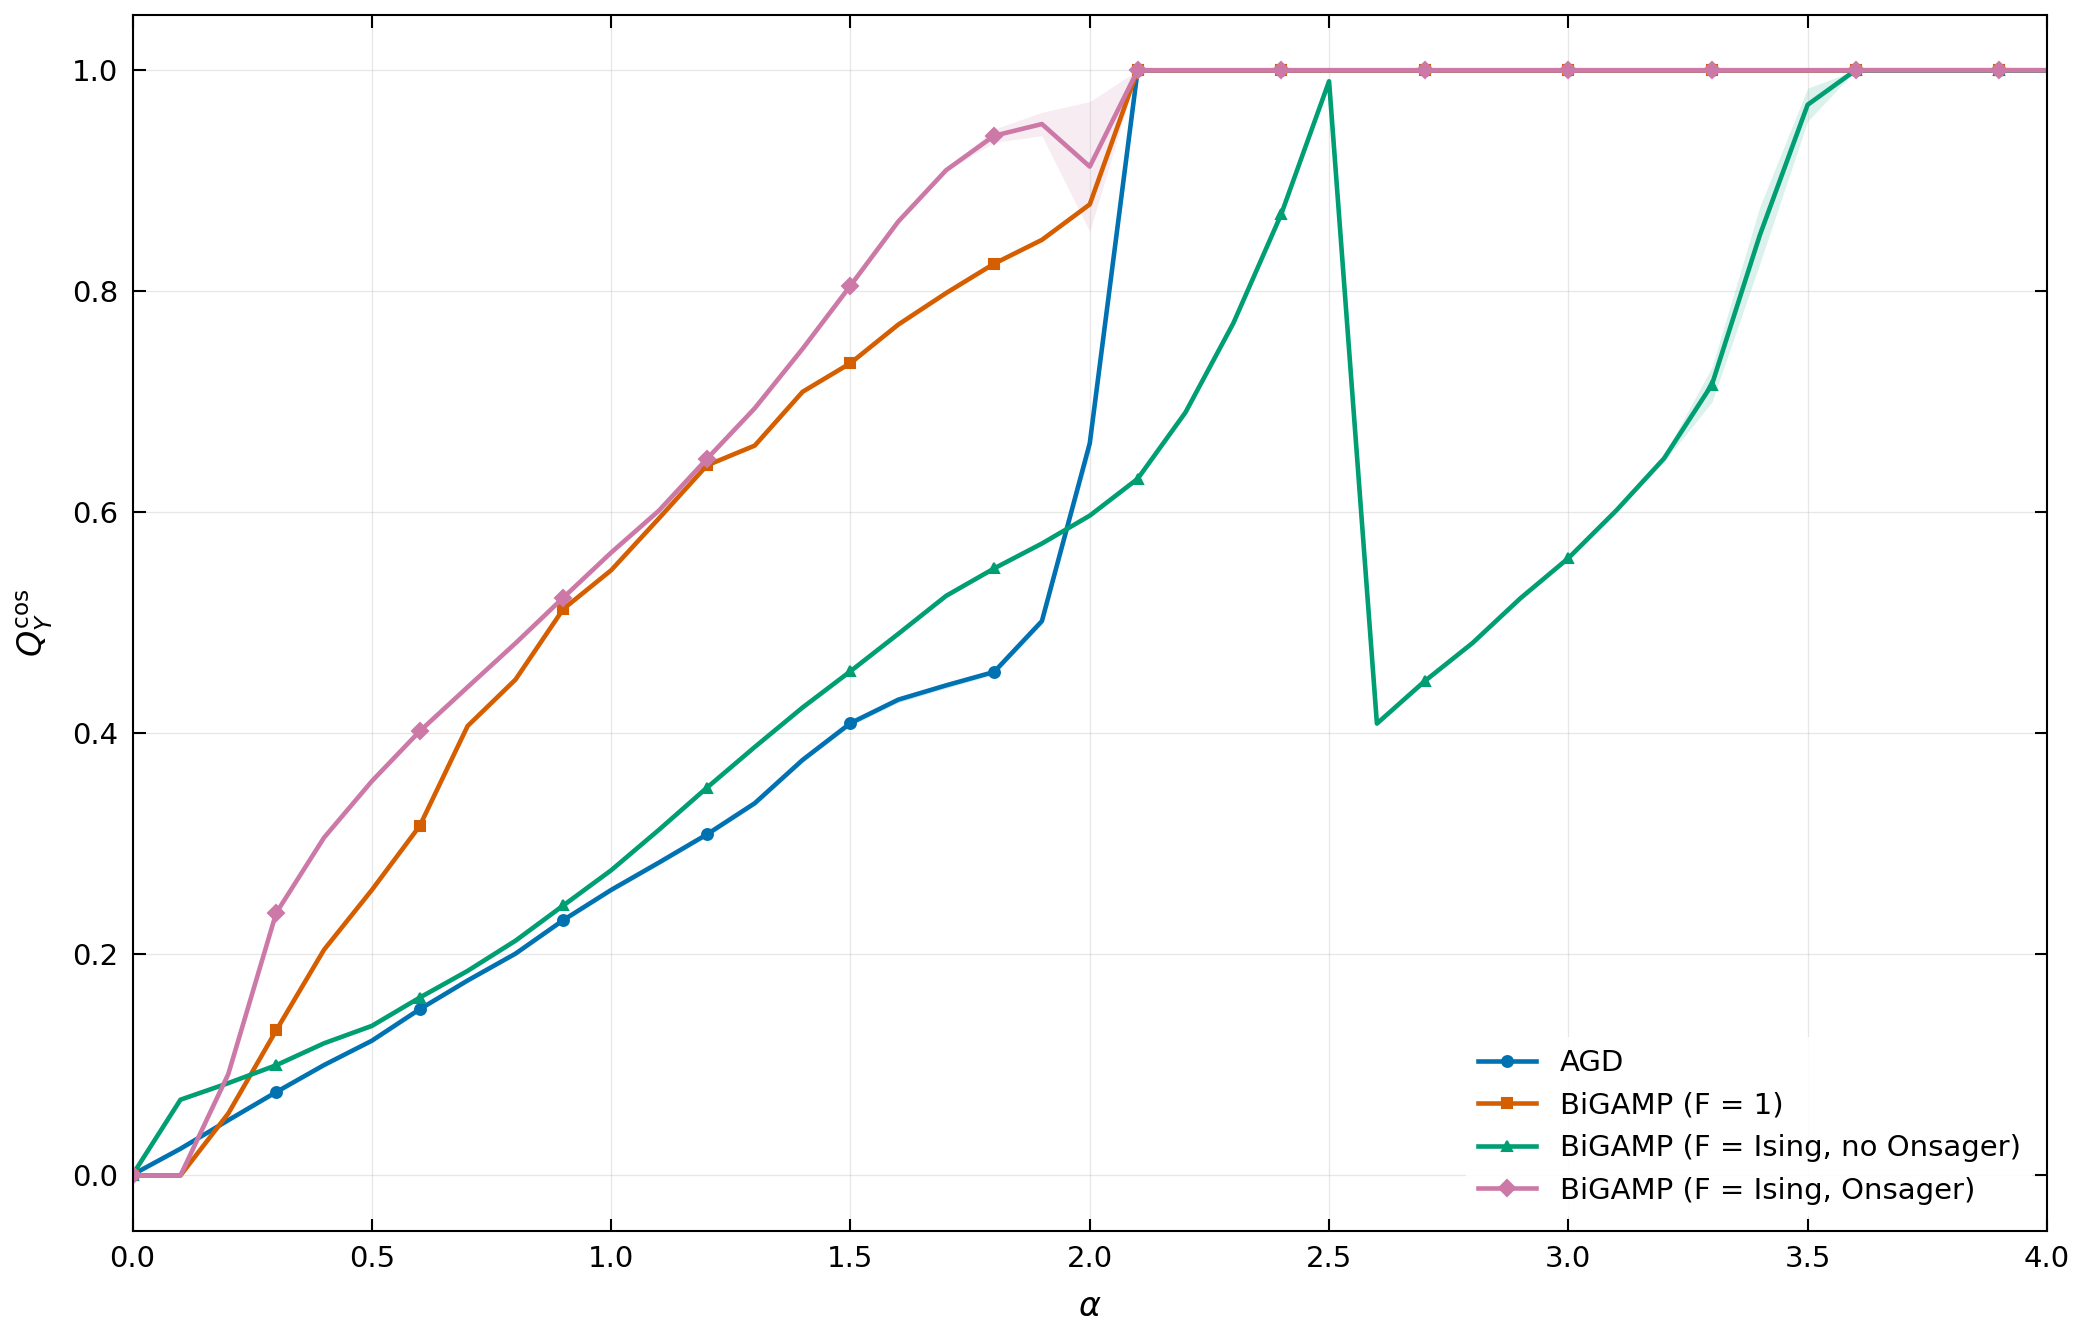
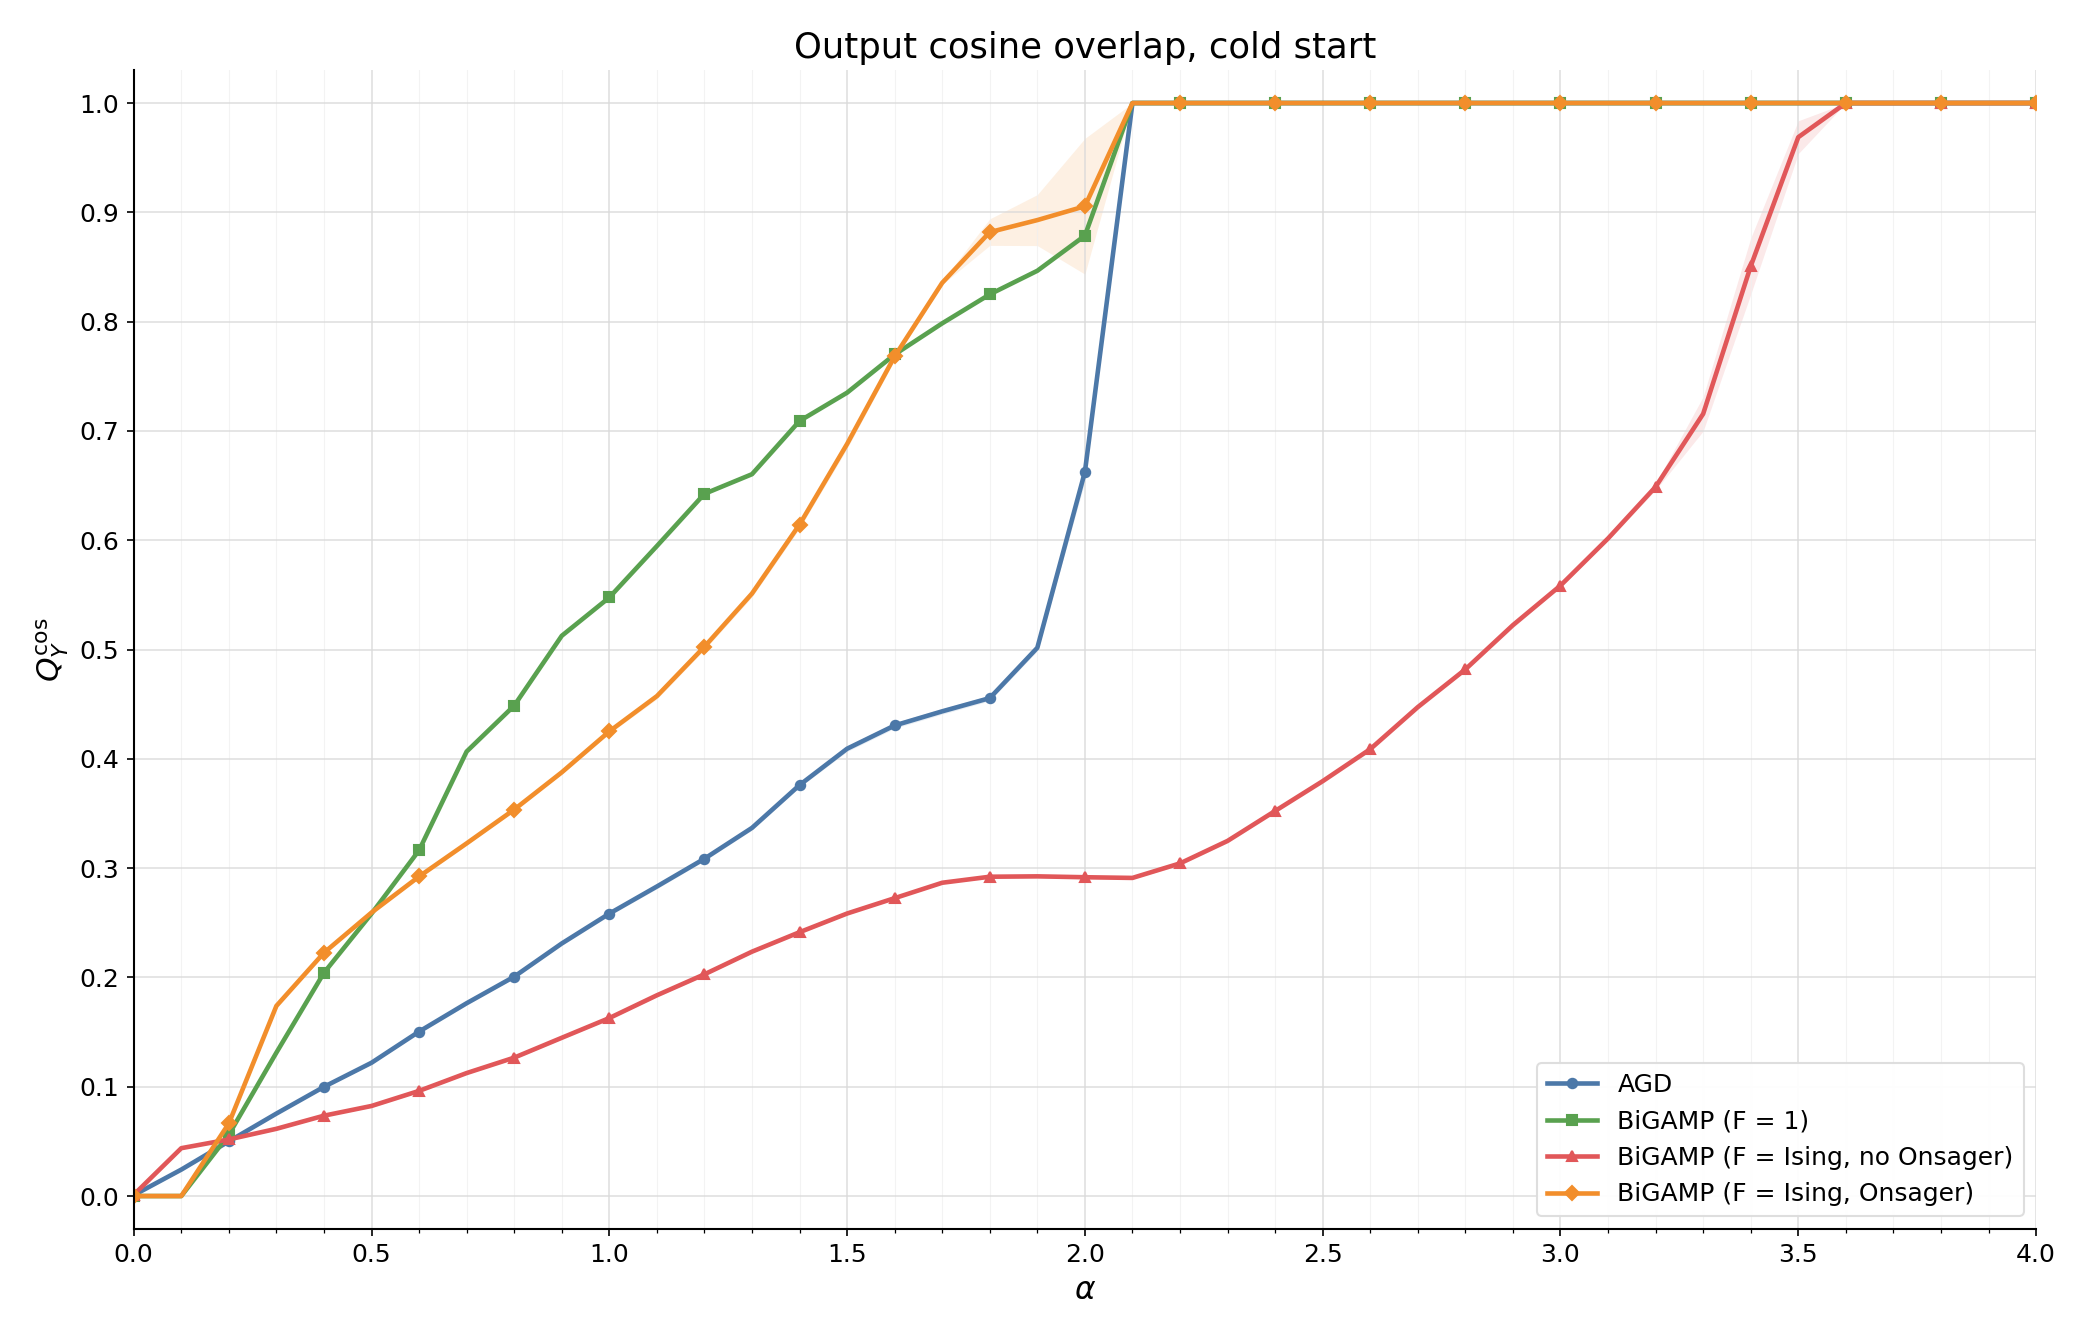
Update algorithm comparison with folded spreading metrics

diff --git a/README.md b/README.md
@@ -86,6 +86,9 @@ Metric: `Q_Y^cos`
 Curves: `AGD`, `BiGAMP (F = 1)`,
 `BiGAMP (F = Ising, no Onsager)`, `BiGAMP (F = Ising, Onsager)`.
 
+For the two `F = Ising` curves, the output metric is computed on the same
+scan-wide supergraph/F domain across alpha folds.
+
 ### 2. N Sweep
 
 ![N sweep latent overlap](showcase_results/02_n_sweep_qw/n_sweep_qw.png)

diff --git a/showcase_results/01_qy_cosine_algorithm_comparison/README.md b/showcase_results/01_qy_cosine_algorithm_comparison/README.md
@@ -5,6 +5,8 @@ Output cosine overlap for four algorithms on the same cold-start problem.
 - `N = 200 x 200`, `M = 50`
 - `initialization = cold start`
 - Metric: `Q_Y^cos`
+- Spreading curves use the scan-wide supergraph/F domain for `Q_Y^cos`, so
+  alpha folding does not change the metric definition.
 
 Files:
 
